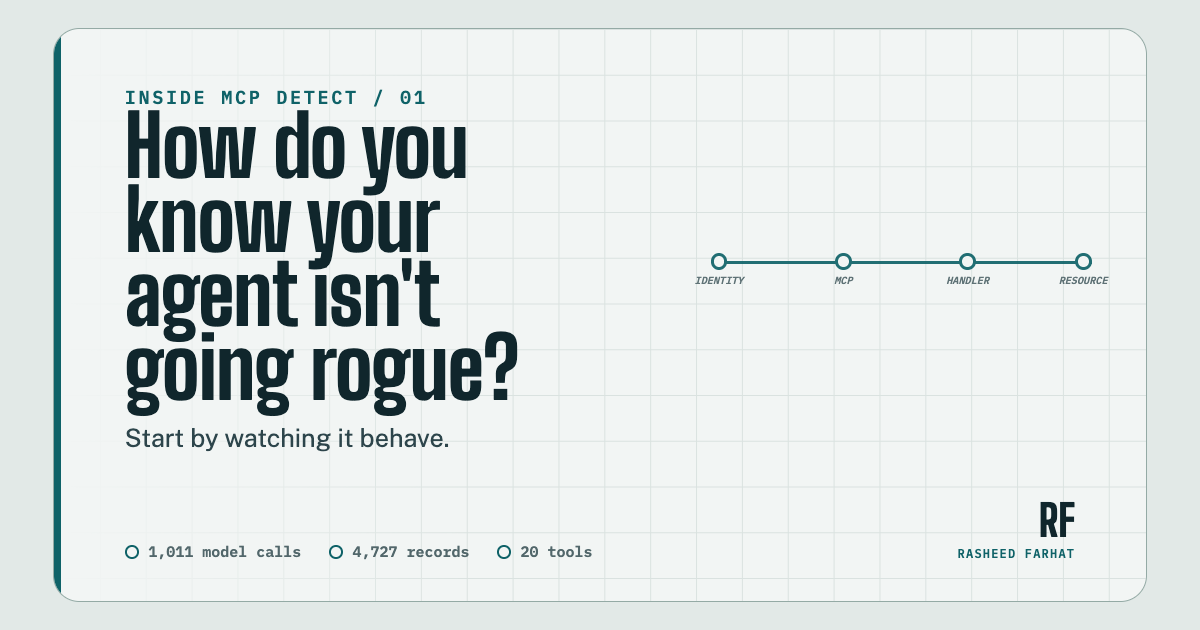
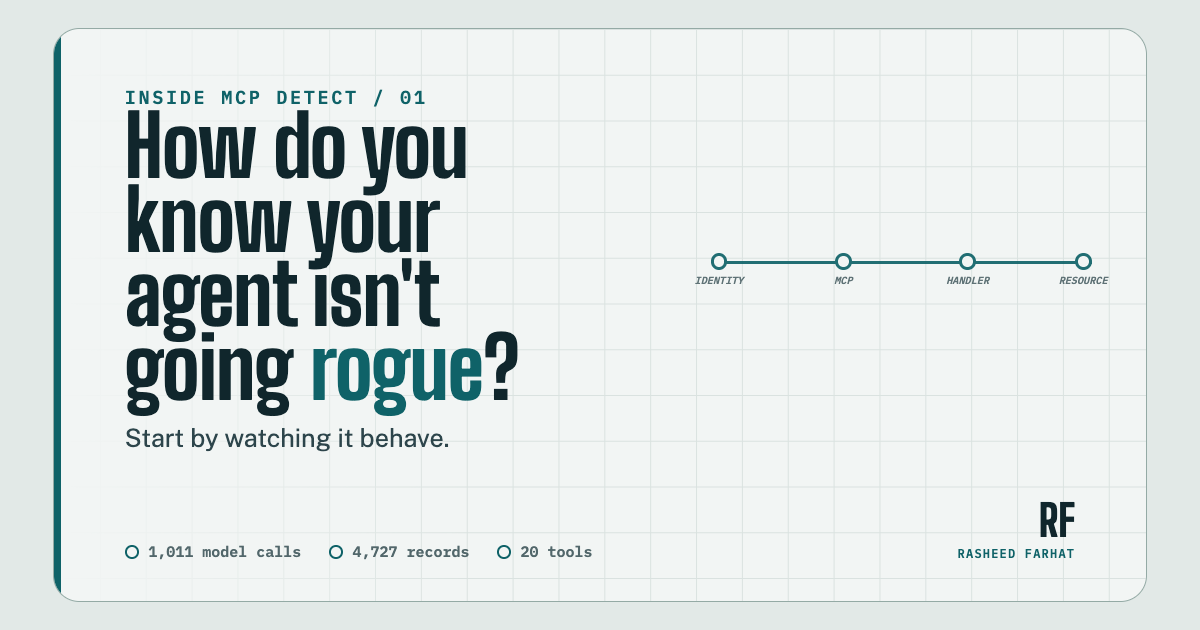
Sharpen the series headlines

Changed region(s): [[0.2467, 0.5429, 0.4008, 0.6635]]

diff --git a/writing/i-built-five-mcp-detections-then-broke-them/index.html b/writing/i-built-five-mcp-detections-then-broke-them/index.html
@@ -6,7 +6,7 @@
     <meta name="description" content="I built five MCP abuse detections, measured them against synthetic traffic, and published the evasions that still beat them." />
     <meta name="theme-color" content="#e2e9e7" />
     <meta name="color-scheme" content="light dark" />
-    <meta property="og:title" content="I Built Five MCP Abuse Detections. Then I Tried to Break Every One." />
+    <meta property="og:title" content="Catching Your Own Attack Only Proves the Plumbing Works" />
     <meta property="og:description" content="Perfect canonical counts, zero benign regression alerts, and ten successful evasions can all be true at the same time." />
     <meta property="og:type" content="article" />
     <meta property="og:url" content="https://rasheedfarhat.github.io/writing/i-built-five-mcp-detections-then-broke-them/" />
@@ -17,7 +17,7 @@
     <meta property="article:author" content="Rasheed Farhat" />
     <meta property="article:published_time" content="2026-08-03T16:00:00+03:00" />
     <meta name="twitter:card" content="summary_large_image" />
-    <meta name="twitter:title" content="I Built Five MCP Abuse Detections. Then I Tried to Break Every One." />
+    <meta name="twitter:title" content="Catching Your Own Attack Only Proves the Plumbing Works" />
     <meta name="twitter:description" content="Perfect canonical counts, zero benign regression alerts, and ten successful evasions can all be true at the same time." />
     <meta name="twitter:image" content="https://rasheedfarhat.github.io/assets/writing/five-detections-preview.png" />
     <link rel="canonical" href="https://rasheedfarhat.github.io/writing/i-built-five-mcp-detections-then-broke-them/" />
@@ -27,13 +27,13 @@
     <link rel="preload" href="/assets/fonts/big-shoulders-var.woff2" as="font" type="font/woff2" crossorigin />
     <link rel="preload" href="/assets/fonts/public-sans-var.woff2" as="font" type="font/woff2" crossorigin />
     <script src="/theme-init.js?v=20260803a"></script>
-    <link rel="stylesheet" href="/styles.css?v=20260803b" />
+    <link rel="stylesheet" href="/styles.css?v=20260803c" />
     <script src="/script.js?v=20260803a" defer></script>
     <script type="application/ld+json">
       {
         "@context": "https://schema.org",
         "@type": "TechArticle",
-        "headline": "I Built Five MCP Abuse Detections. Then I Tried to Break Every One.",
+        "headline": "Catching Your Own Attack Only Proves the Plumbing Works",
         "description": "I built five MCP abuse detections, measured them against synthetic traffic, and published the evasions that still beat them.",
         "datePublished": "2026-08-03T16:00:00+03:00",
         "dateModified": "2026-08-03T16:00:00+03:00",
@@ -42,7 +42,7 @@
         "isPartOf": {"@type": "CreativeWorkSeries", "name": "Inside MCP Detect: Engineering Evidence for AI-Agent Boundaries"}
       }
     </script>
-    <title>I Built Five MCP Abuse Detections | Rasheed Farhat</title>
+    <title>An Attack Only Proves the Plumbing | Rasheed Farhat</title>
   </head>
   <body>
     <a class="skip-link" href="#main">Skip to main content</a>
@@ -64,7 +64,7 @@
         <header class="article-hero shell">
           <nav class="breadcrumb" aria-label="Breadcrumb"><a href="/writing/">Writing</a><span aria-hidden="true">/</span><span>Inside MCP Detect, part 2</span></nav>
           <p class="series-kicker">Inside MCP Detect <span>Part 2 of 3</span></p>
-          <h1>I Built Five MCP Abuse Detections. Then I Tried to Break Every One.</h1>
+          <h1>Catching Your Own Attack Only Proves the <span class="article-title__signal">Plumbing</span> Works</h1>
           <p class="article-hero__dek">The canonical attacks looked excellent. The evasion corpus did not. I needed both results before I could describe what the rules actually covered.</p>
           <dl class="article-meta">
             <div><dt>Written by</dt><dd>Rasheed Farhat</dd></div>
@@ -307,7 +307,7 @@ make measure-full</code></pre></figure>
 
             <nav class="series-nav" aria-label="Next article in the series">
               <span class="series-nav__label">Next in Inside MCP Detect</span>
-              <a href="/writing/the-mcp-call-looked-legitimate/">The MCP Call Looked Legitimate. The Authorization Bug Wasn't.</a>
+              <a href="/writing/the-mcp-call-looked-legitimate/">The Handler Deleted the Only Field That Mattered</a>
             </nav>
           </div>
         </div>

diff --git a/writing/the-mcp-call-looked-legitimate/index.html b/writing/the-mcp-call-looked-legitimate/index.html
@@ -6,7 +6,7 @@
     <meta name="description" content="A synthetic MCP request looked valid in telemetry while its handler returned another tenant's invoice. I traced the identity, fixed the source, and denied the retest." />
     <meta name="theme-color" content="#e2e9e7" />
     <meta name="color-scheme" content="light dark" />
-    <meta property="og:title" content="The MCP Call Looked Legitimate. The Authorization Bug Wasn't." />
+    <meta property="og:title" content="The Handler Deleted the Only Field That Mattered" />
     <meta property="og:description" content="The method, schema, arguments, and response looked normal. The handler had discarded the authenticated tenant." />
     <meta property="og:type" content="article" />
     <meta property="og:url" content="https://rasheedfarhat.github.io/writing/the-mcp-call-looked-legitimate/" />
@@ -17,7 +17,7 @@
     <meta property="article:author" content="Rasheed Farhat" />
     <meta property="article:published_time" content="2026-08-03T16:00:00+03:00" />
     <meta name="twitter:card" content="summary_large_image" />
-    <meta name="twitter:title" content="The MCP Call Looked Legitimate. The Authorization Bug Wasn't." />
+    <meta name="twitter:title" content="The Handler Deleted the Only Field That Mattered" />
     <meta name="twitter:description" content="The method, schema, arguments, and response looked normal. The handler had discarded the authenticated tenant." />
     <meta name="twitter:image" content="https://rasheedfarhat.github.io/assets/writing/legitimate-call-preview.png" />
     <link rel="canonical" href="https://rasheedfarhat.github.io/writing/the-mcp-call-looked-legitimate/" />
@@ -27,13 +27,13 @@
     <link rel="preload" href="/assets/fonts/big-shoulders-var.woff2" as="font" type="font/woff2" crossorigin />
     <link rel="preload" href="/assets/fonts/public-sans-var.woff2" as="font" type="font/woff2" crossorigin />
     <script src="/theme-init.js?v=20260803a"></script>
-    <link rel="stylesheet" href="/styles.css?v=20260803b" />
+    <link rel="stylesheet" href="/styles.css?v=20260803c" />
     <script src="/script.js?v=20260803a" defer></script>
     <script type="application/ld+json">
       {
         "@context": "https://schema.org",
         "@type": "TechArticle",
-        "headline": "The MCP Call Looked Legitimate. The Authorization Bug Wasn't.",
+        "headline": "The Handler Deleted the Only Field That Mattered",
         "description": "A synthetic MCP request looked valid in telemetry while its handler returned another tenant's invoice. I traced the identity, fixed the source, and denied the retest.",
         "datePublished": "2026-08-03T16:00:00+03:00",
         "dateModified": "2026-08-03T16:00:00+03:00",
@@ -42,7 +42,7 @@
         "isPartOf": {"@type": "CreativeWorkSeries", "name": "Inside MCP Detect: Engineering Evidence for AI-Agent Boundaries"}
       }
     </script>
-    <title>The MCP Call Looked Legitimate | Rasheed Farhat</title>
+    <title>The Handler Deleted the Only Field That Mattered | Rasheed Farhat</title>
   </head>
   <body>
     <a class="skip-link" href="#main">Skip to main content</a>
@@ -64,7 +64,7 @@
         <header class="article-hero shell">
           <nav class="breadcrumb" aria-label="Breadcrumb"><a href="/writing/">Writing</a><span aria-hidden="true">/</span><span>Inside MCP Detect, part 3</span></nav>
           <p class="series-kicker">Inside MCP Detect <span>Part 3 of 3</span></p>
-          <h1>The MCP Call Looked Legitimate. The Authorization Bug Wasn't.</h1>
+          <h1>The Handler <span class="article-title__signal">Deleted</span> the Only Field That Mattered</h1>
           <p class="article-hero__dek">Telemetry showed an authenticated request, a valid tool, accepted arguments, and a successful response. Only the source revealed that the wrong tenant controlled the lookup.</p>
           <dl class="article-meta">
             <div><dt>Written by</dt><dd>Rasheed Farhat</dd></div>

diff --git a/scripts/writing-card-source.html b/scripts/writing-card-source.html
@@ -16,6 +16,7 @@
   .content { position: absolute; z-index: 2; inset: 4.4%; padding: 4.8% 6% 3.4%; display: flex; flex-direction: column; justify-content: space-between; }
   .kicker { font-family: "IBM Plex Mono", monospace; font-size: clamp(15px, 1.55vw, 30px); letter-spacing: 0.14em; text-transform: uppercase; color: #0f6268; margin: 0; }
   h1 { font-family: "Big Shoulders", sans-serif; font-size: clamp(58px, 7vw, 136px); font-weight: 720; line-height: 0.88; letter-spacing: -0.01em; max-width: 10.7ch; margin: 0; }
+  h1 .signal { color: #0f6268; }
   .support { font-size: clamp(20px, 2.1vw, 40px); line-height: 1.28; color: #2d454b; max-width: 32ch; margin: 1.8% 0 0; }
   .bottom { display: flex; align-items: flex-end; justify-content: space-between; gap: 4%; }
   .proof { display: flex; gap: 2.3vw; font-family: "IBM Plex Mono", monospace; font-size: clamp(13px, 1.25vw, 24px); color: #52676b; }
@@ -38,6 +39,7 @@
   .node:nth-child(5)::after { content: "RESOURCE"; }
   body[data-article="2"] .trace-line { background: linear-gradient(90deg, #0f6268 0 46%, transparent 46% 52%, #0f6268 52% 100%); }
   body[data-article="2"] .node:nth-child(4) { border-style: dashed; }
+  body[data-article="2"] h1 { font-size: clamp(52px, 5.85vw, 112px); line-height: 0.92; max-width: 12ch; }
   body[data-article="3"] .trace-line { background: linear-gradient(90deg, #0f6268 0 62%, #a7b8b4 62% 100%); }
   body[data-article="3"] .node:nth-child(4) { background: repeating-linear-gradient(135deg, #d5dfdc 0 5px, #f2f5f4 5px 9px); }
   @media (max-aspect-ratio: 1.3/1) {
@@ -64,19 +66,25 @@
   const cards = {
     "1": {
       kicker: "Inside MCP Detect / 01",
-      title: "How do you know your agent isn't going rogue?",
+      titleBefore: "How do you know your agent isn't going ",
+      titleSignal: "rogue",
+      titleAfter: "?",
       support: "Start by watching it behave.",
       proof: ["1,011 model calls", "4,727 records", "20 tools"]
     },
     "2": {
       kicker: "Inside MCP Detect / 02",
-      title: "Five detections. Ten evasions still worked.",
+      titleBefore: "Catching your own attack only proves the ",
+      titleSignal: "plumbing",
+      titleAfter: " works.",
       support: "What the clean tables did not prove.",
       proof: ["5 techniques", "0 / 4,727 benign", "12 evasion classes"]
     },
     "3": {
       kicker: "Inside MCP Detect / 03",
-      title: "The call looked legitimate. The authorization bug wasn't.",
+      titleBefore: "The handler ",
+      titleSignal: "deleted",
+      titleAfter: " the only field that mattered.",
       support: "Follow identity through the handler.",
       proof: ["tenant-red", "tenant-blue", "denied retest"]
     }
@@ -85,7 +93,11 @@
   const card = cards[article];
   document.body.dataset.article = article;
   document.getElementById("kicker").textContent = card.kicker;
-  document.getElementById("title").textContent = card.title;
+  const title = document.getElementById("title");
+  const signal = document.createElement("span");
+  signal.className = "signal";
+  signal.textContent = card.titleSignal;
+  title.replaceChildren(document.createTextNode(card.titleBefore), signal, document.createTextNode(card.titleAfter));
   document.getElementById("support").textContent = card.support;
   document.getElementById("proof").replaceChildren(...card.proof.map((item) => {
     const span = document.createElement("span");

diff --git a/writing/how-do-you-know-your-agent-isnt-going-rogue/index.html b/writing/how-do-you-know-your-agent-isnt-going-rogue/index.html
@@ -27,7 +27,7 @@
     <link rel="preload" href="/assets/fonts/big-shoulders-var.woff2" as="font" type="font/woff2" crossorigin />
     <link rel="preload" href="/assets/fonts/public-sans-var.woff2" as="font" type="font/woff2" crossorigin />
     <script src="/theme-init.js?v=20260803a"></script>
-    <link rel="stylesheet" href="/styles.css?v=20260803b" />
+    <link rel="stylesheet" href="/styles.css?v=20260803c" />
     <script src="/script.js?v=20260803a" defer></script>
     <script type="application/ld+json">
       {
@@ -64,7 +64,7 @@
         <header class="article-hero shell">
           <nav class="breadcrumb" aria-label="Breadcrumb"><a href="/writing/">Writing</a><span aria-hidden="true">/</span><span>Inside MCP Detect, part 1</span></nav>
           <p class="series-kicker">Inside MCP Detect <span>Part 1 of 3</span></p>
-          <h1>How Do You Know Your AI Agent Isn't Going Rogue? Start by Watching It Behave</h1>
+          <h1>How Do You Know Your AI Agent Isn't Going <span class="article-title__signal">Rogue</span>? Start by Watching It Behave</h1>
           <p class="article-hero__dek">I gave a local model legitimate work, recorded the MCP calls it chose on its own, and learned why a useful detection baseline has to preserve the agent's mistakes.</p>
           <dl class="article-meta">
             <div><dt>Written by</dt><dd>Rasheed Farhat</dd></div>
@@ -257,7 +257,7 @@ make measure</code></pre></figure>
 
             <nav class="series-nav" aria-label="Next article in the series">
               <span class="series-nav__label">Next in Inside MCP Detect</span>
-              <a href="/writing/i-built-five-mcp-detections-then-broke-them/">I Built Five MCP Abuse Detections. Then I Tried to Break Every One.</a>
+              <a href="/writing/i-built-five-mcp-detections-then-broke-them/">Catching Your Own Attack Only Proves the Plumbing Works</a>
             </nav>
           </div>
         </div>

diff --git a/writing/index.html b/writing/index.html
@@ -124,7 +124,7 @@
               <span class="venue">Inside MCP Detect 2/3</span>
             </div>
             <div>
-              <h3><a href="/writing/i-built-five-mcp-detections-then-broke-them/">I Built Five MCP Abuse Detections. Then I Tried to Break Every One.</a></h3>
+              <h3><a href="/writing/i-built-five-mcp-detections-then-broke-them/">Catching Your Own Attack Only Proves the Plumbing Works</a></h3>
               <p>
                 Perfect canonical counts, zero alerts across 4,727 synthetic
                 benign records, and ten successful evasions can all be true at
@@ -138,7 +138,7 @@
               <span class="venue">Inside MCP Detect 3/3</span>
             </div>
             <div>
-              <h3><a href="/writing/the-mcp-call-looked-legitimate/">The MCP Call Looked Legitimate. The Authorization Bug Wasn't.</a></h3>
+              <h3><a href="/writing/the-mcp-call-looked-legitimate/">The Handler Deleted the Only Field That Mattered</a></h3>
               <p>
                 A synthetic cross-tenant request looked valid in telemetry.
                 The source showed that the handler had discarded authenticated

diff --git a/styles.css b/styles.css
@@ -2194,6 +2194,10 @@ ul.tag-list {
   margin-bottom: 1.5rem;
 }
 
+.article-title__signal {
+  color: var(--signal);
+}
+
 .article-hero__dek {
   max-width: 58ch;
   font-size: clamp(1.15rem, 2.3vw, 1.45rem);
